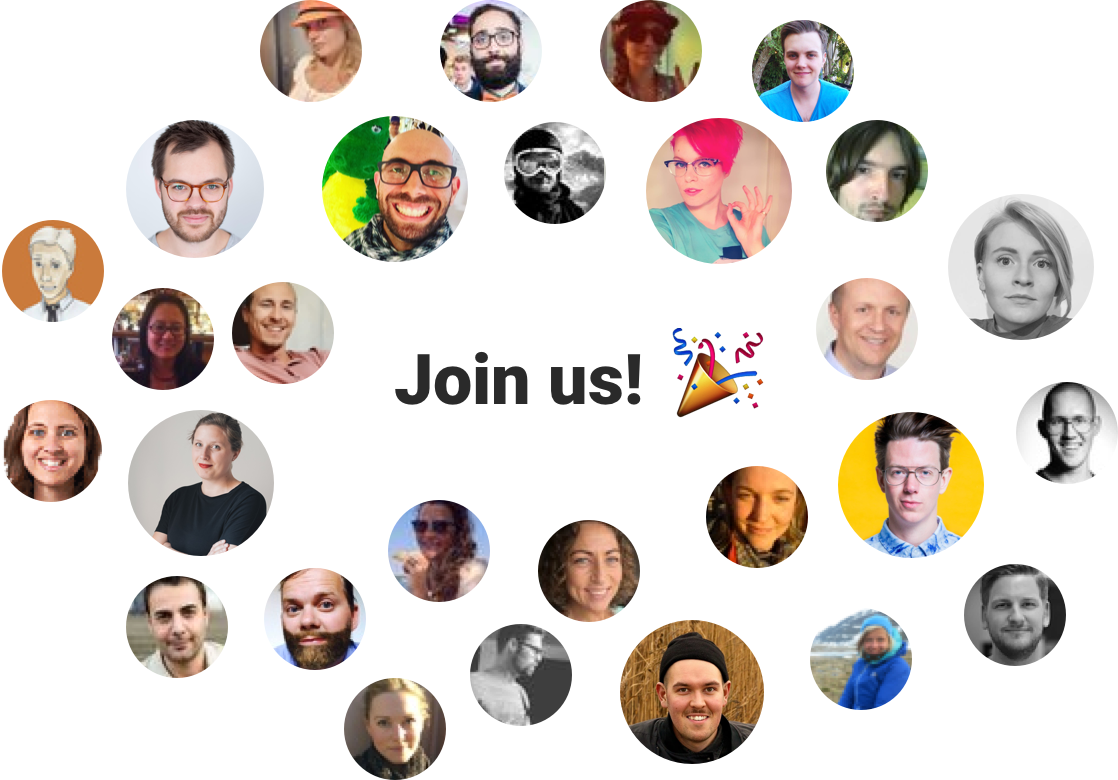
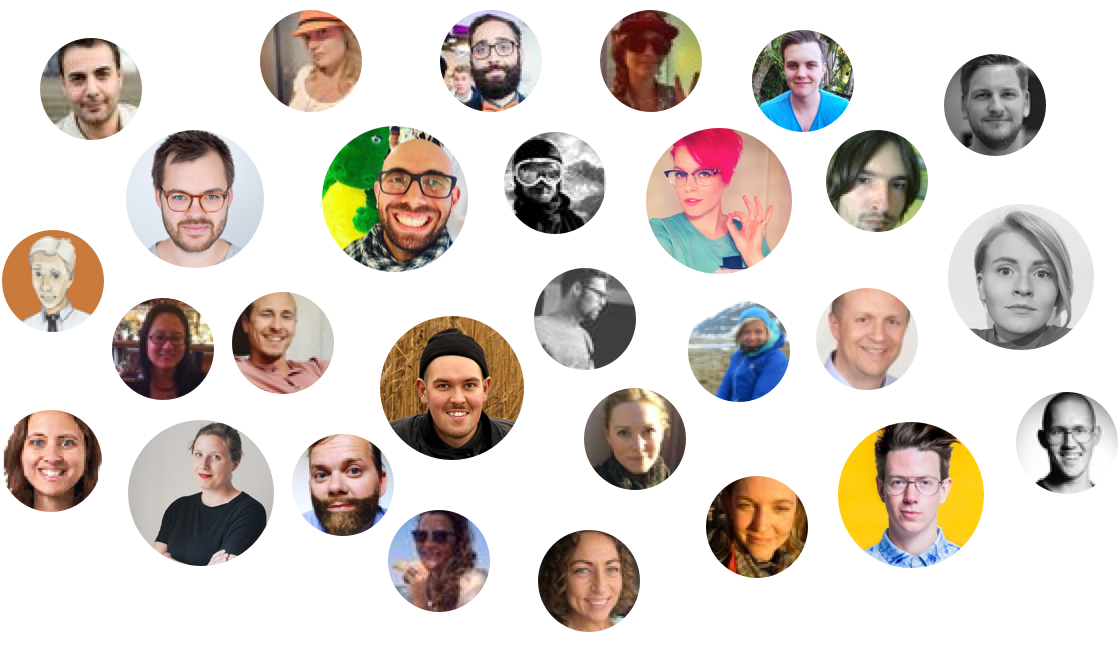
Add some social media links etc

diff --git a/index.html b/index.html
@@ -1,12 +1,21 @@
 ---
 layout: default
 ---
+
 <article class="index">
+  <img src="/assets/images/members.png" class="members">
   <h1>Welcome to Stockholm JavaScript Meetup</h1>
   <p>
-    Sthlm.js is a meetup with over 2700 members founded 2011. We meet about once
+    Sthlm.js is a meetup with over 2800 members founded 2011. We meet about once
     a month and talk about JavaScript while making new friends and learn new
     things. We’re always looking for <a href="/speak">speakers</a> and <a href="/host">event hosts</a>.
   </p>
+
+  <p>
+    <i>Keep posted</i> 👉 &nbsp; &nbsp;
+    <a href="https://www.youtube.com/channel/UCZnAzZWPcvN4KeSwX_JR3yw">YouTube</a> &nbsp; &nbsp;
+    <a href="https://twitter.com/sthlmjs">Twitter</a> &nbsp; &nbsp;
+    <a href="https://facebook.com/sthlmjs">Facebook</a>  &nbsp; &nbsp;
+    <a href="https://github.com/sthlmjs">GitHub</a> &nbsp; &nbsp; &nbsp; &nbsp; &nbsp; &nbsp;
+  </p>
 </article>
-<a href="/events" class="join-us">Join us!</a>

diff --git a/_includes/menu.html b/_includes/menu.html
@@ -5,6 +5,7 @@
       <li class="menu-item"><a class="menu-link" href="/speak">Submit talk</a></li>
       <li class="menu-item"><a class="menu-link" href="/host">Host event</a></li>
       <li class="menu-item"><a class="menu-link" href="/events">Show events</a></li>
+      <li class="menu-item"><b><a class="menu-link" href="/join">Join us</a></b></li>
     </ul>
   </div>
 </div>

diff --git a/_sass/_base.scss b/_sass/_base.scss
@@ -182,6 +182,10 @@ article {
 .index {
   text-align: center;
 }
+.members {
+  margin:0 auto $spacing-unit;
+  width:80%;
+}
 .join-us {
   transition: opacity .2s ease-in-out;
   background: url(/assets/images/members.png) center no-repeat;

diff --git a/join.md b/join.md
@@ -1,0 +1,4 @@
+---
+redirect_to:
+  - https://www.meetup.com/sthlm-js/join/
+---
